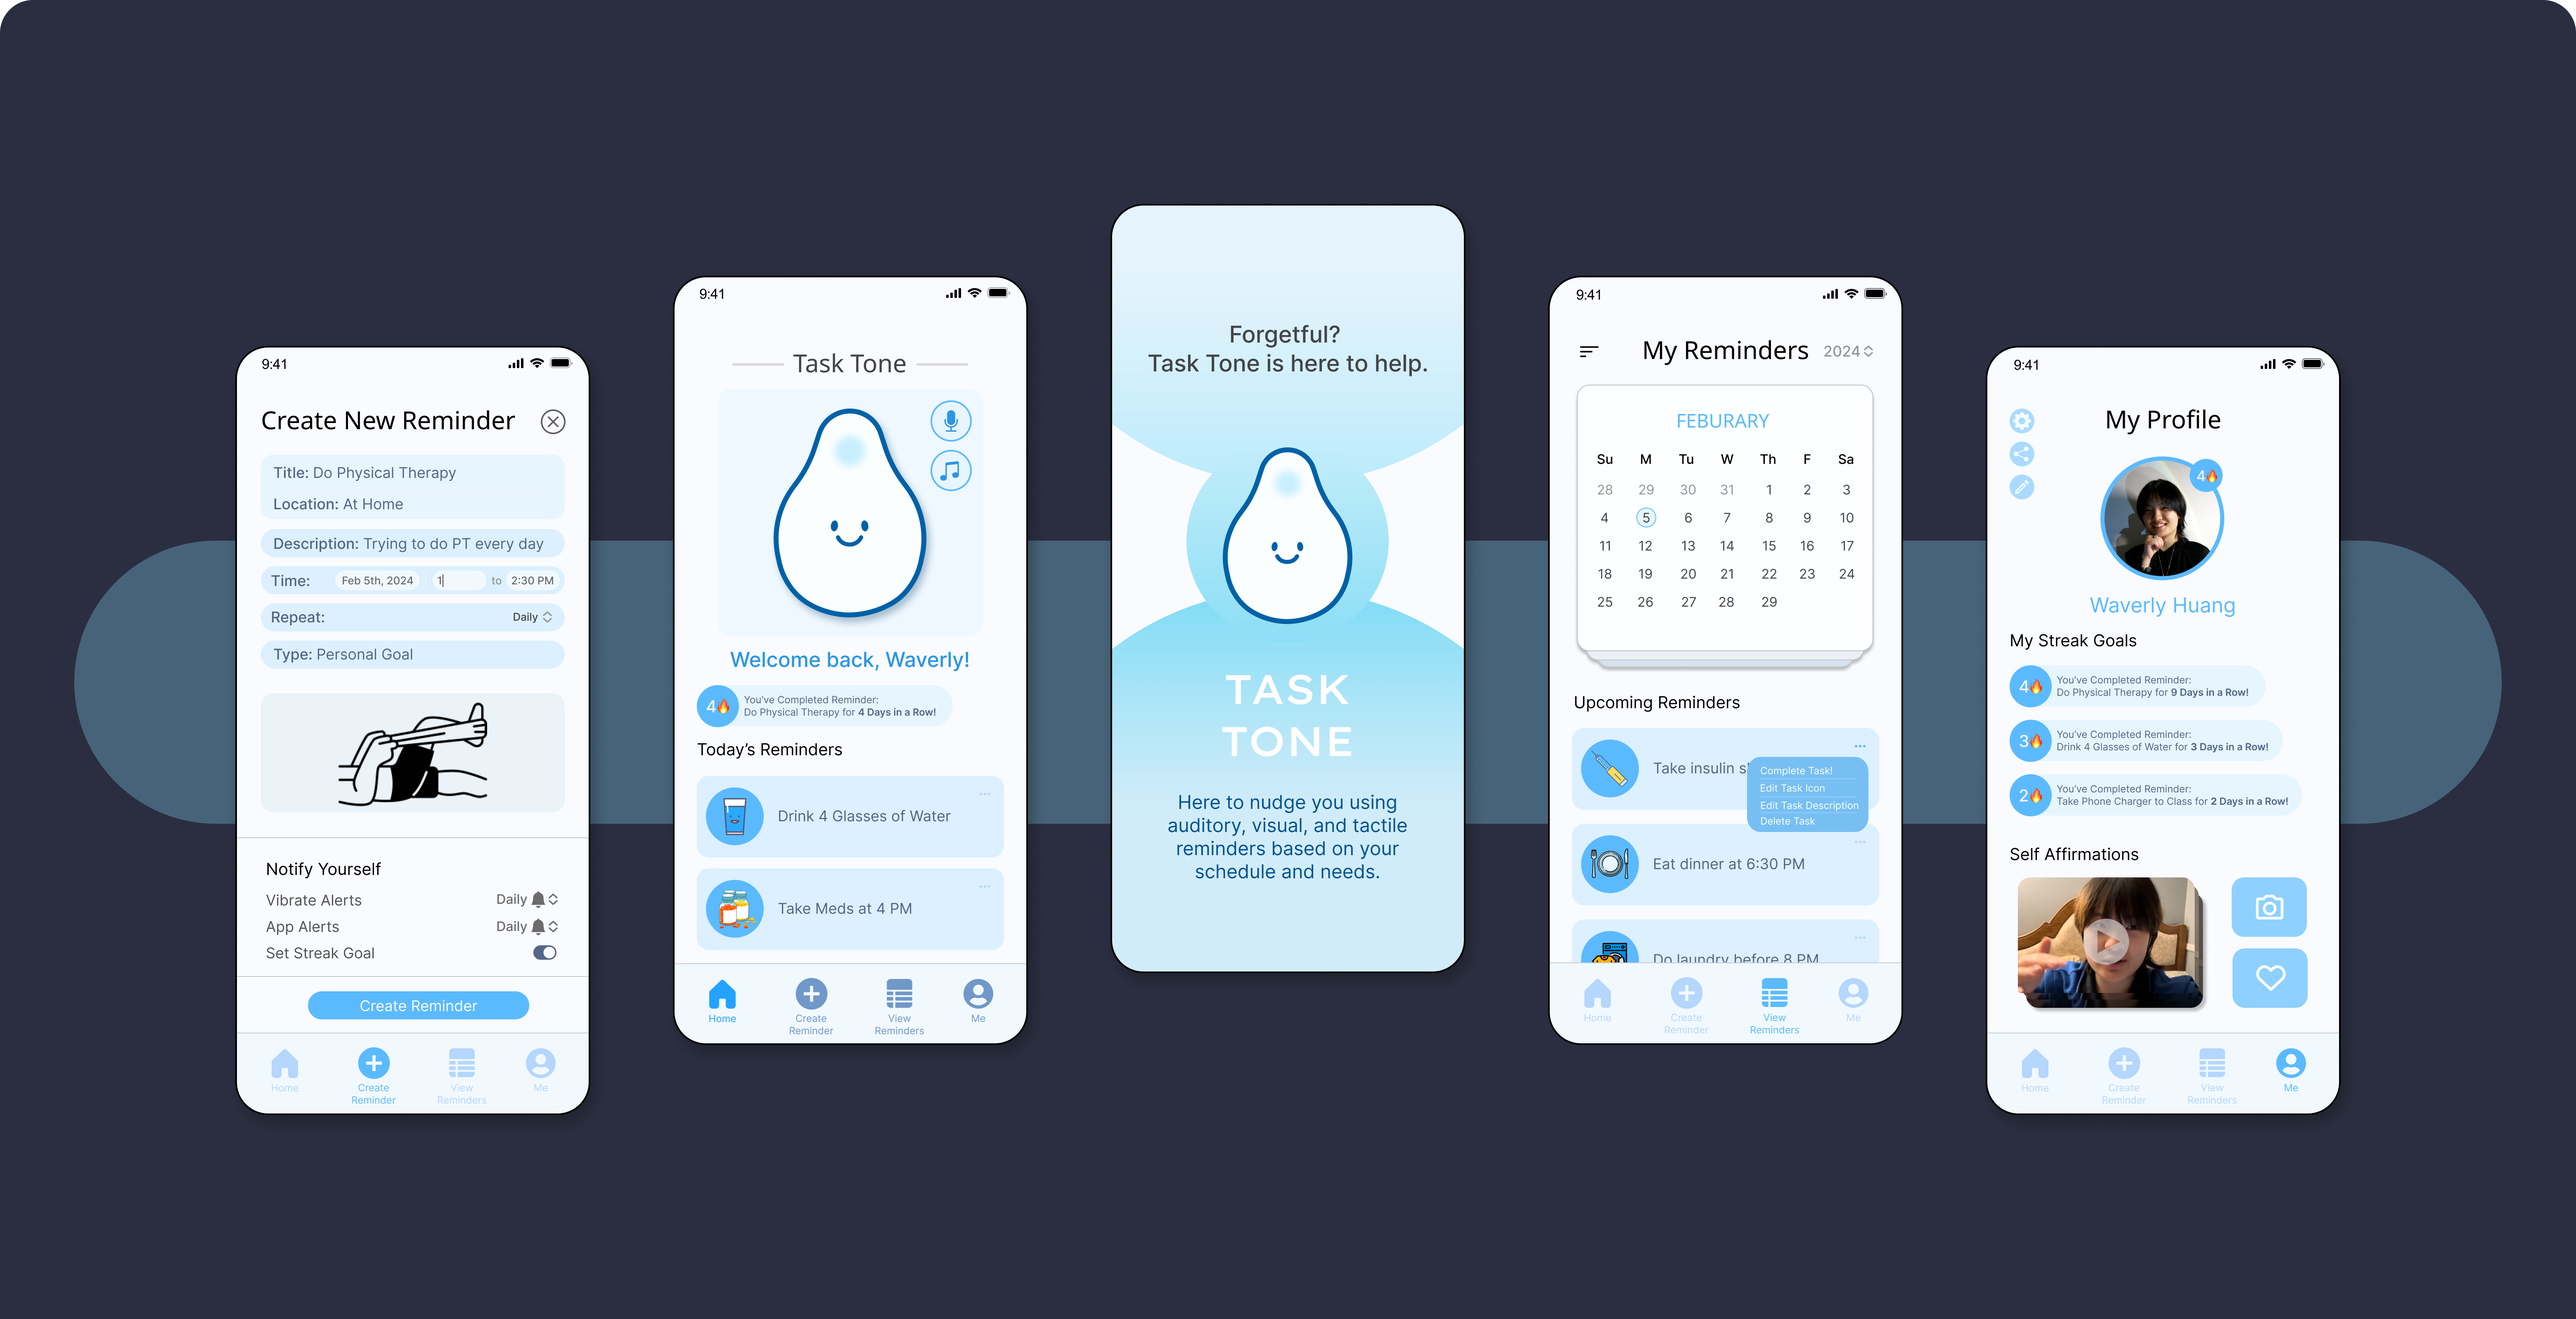
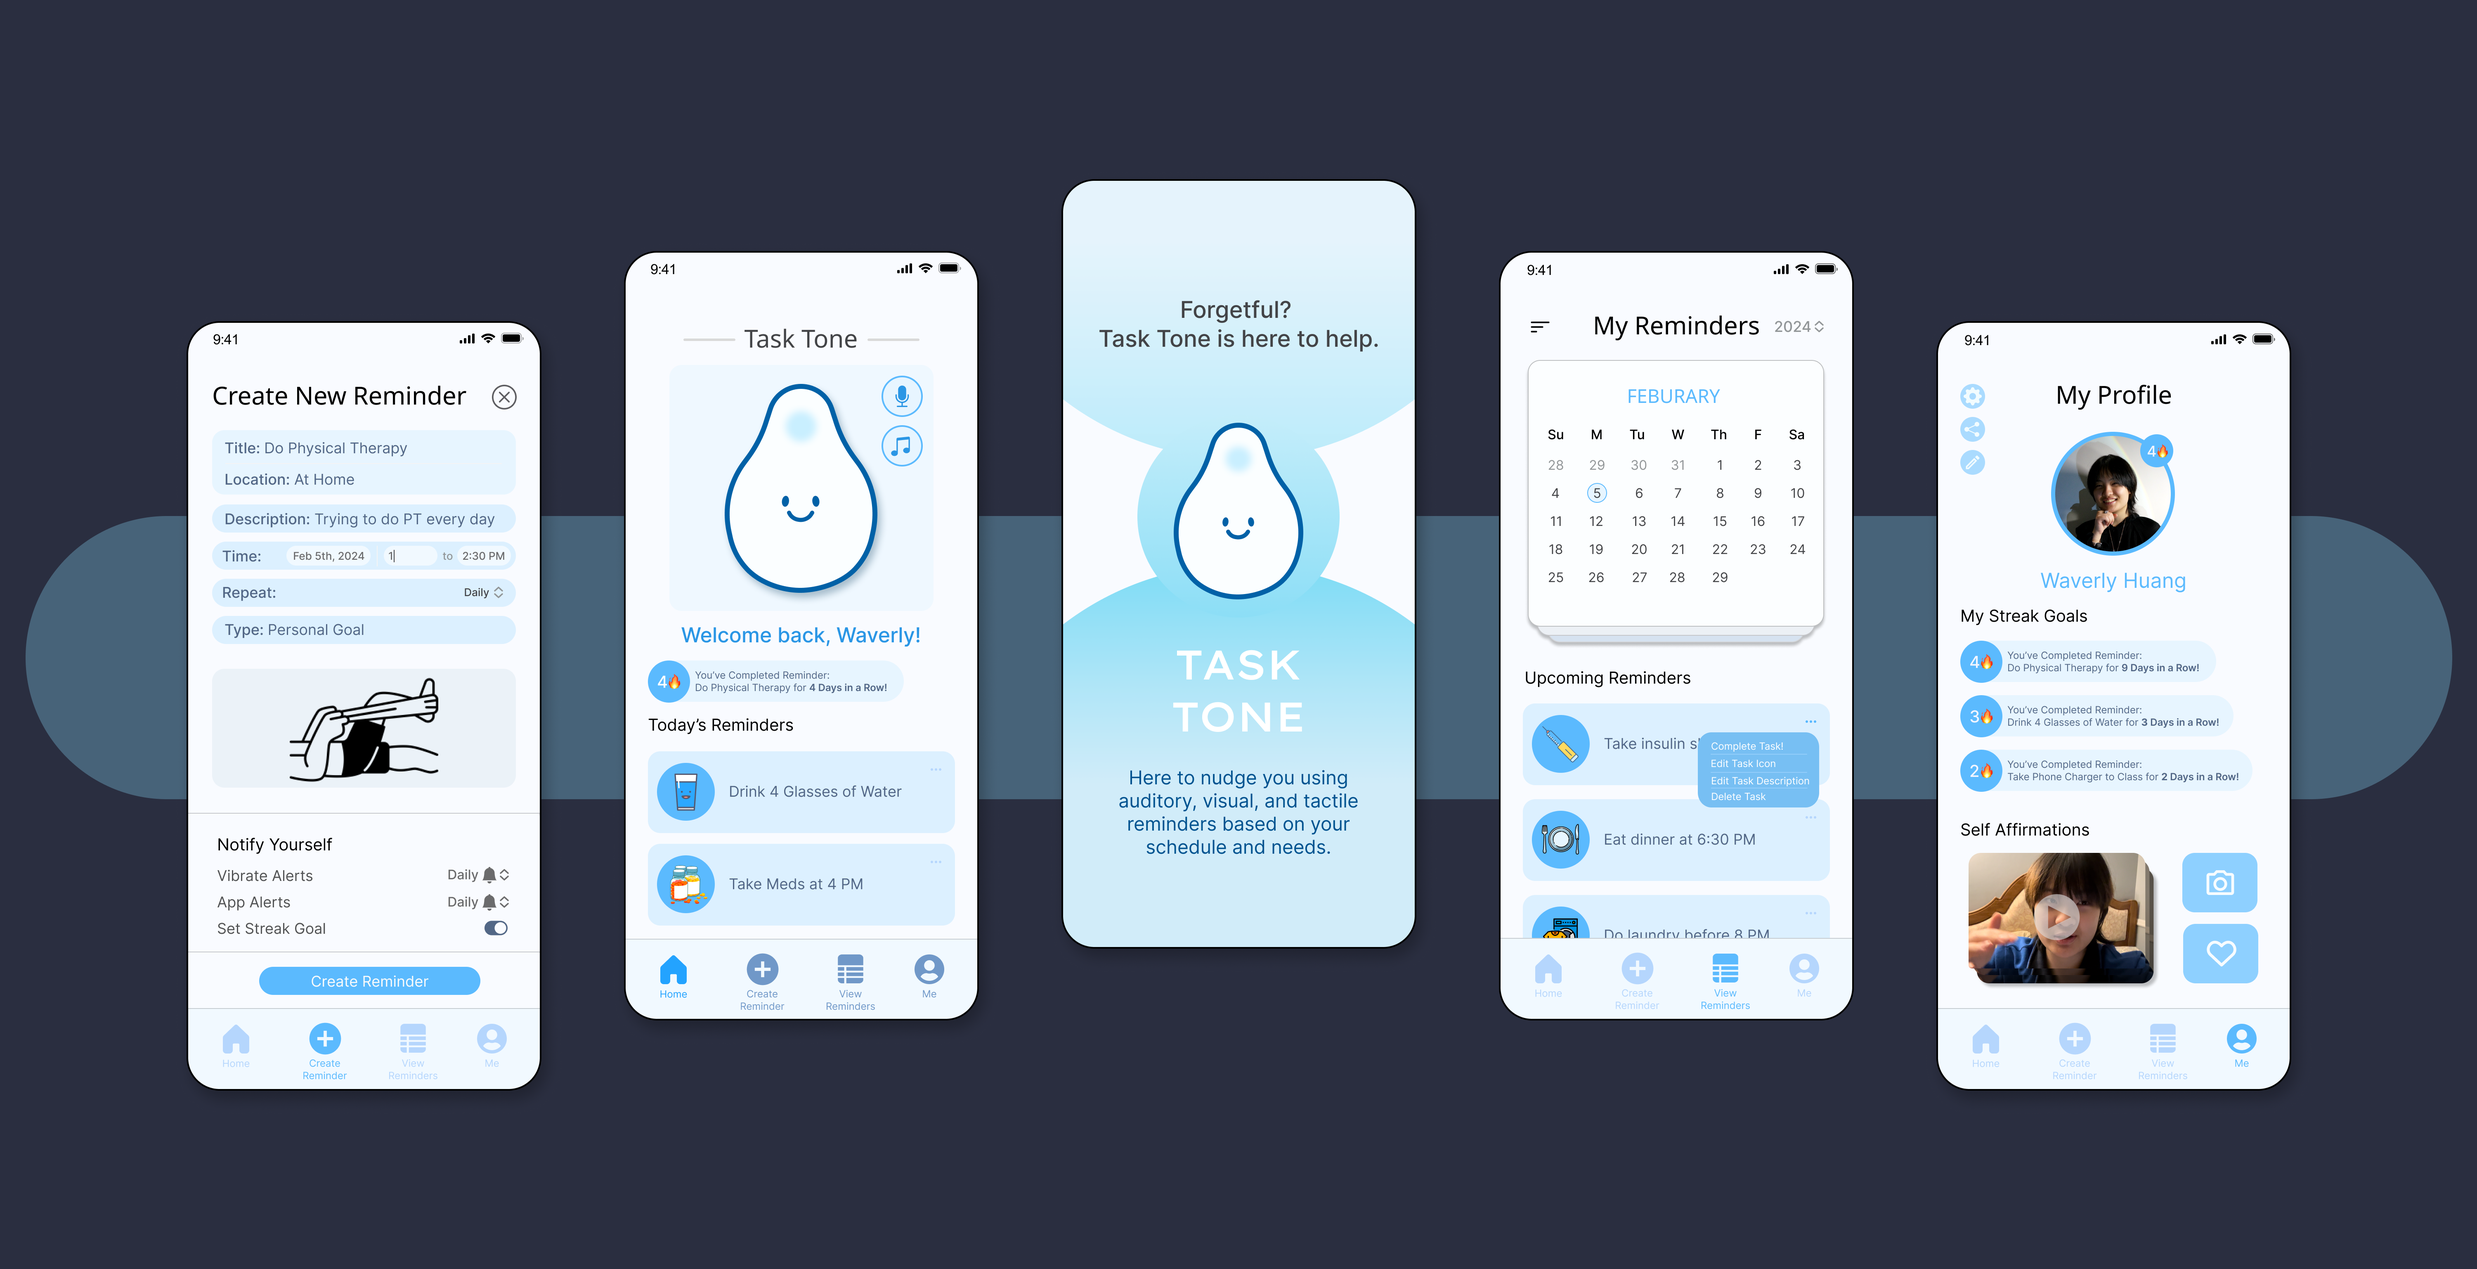
update

diff --git a/tasktone.html b/tasktone.html
@@ -262,7 +262,21 @@
             <div class="section-header">
                 <h2 class="section-title">Pain Points & Inspiration</h2>
             </div>
-
+            <div class="pain-item">
+                <h3 class="research-title">Phone Reminders = Unreliable</h3>
+                <p class="research-description">Auditory alerts aren't always effective.</p>
+                <div class="project-photos">
+                    <img src="images/tasktone_project/task_tone_user_scenario_1 copy.jpg" alt="Images of my app with five keyframes." height="600">
+                </div>
+            </div>
+            <div class="solution-item">
+                <h3 class="research-title">Task Tone = Tactile & Reliable!</h3>
+                <p class="research-description">With Task Tone, you can have a tactile reminder on your clothes.</p>
+                <div class="project-photos">
+                    <img src="images/tasktone_project/task_tone_user_scenario_2 copy.jpg" alt="Images of my app with five keyframes."  height="600">
+                </div>
+            </div>
+            
             <div class="research-timeline">
                 <div class="research-step">
                     <div class="pain-item">
